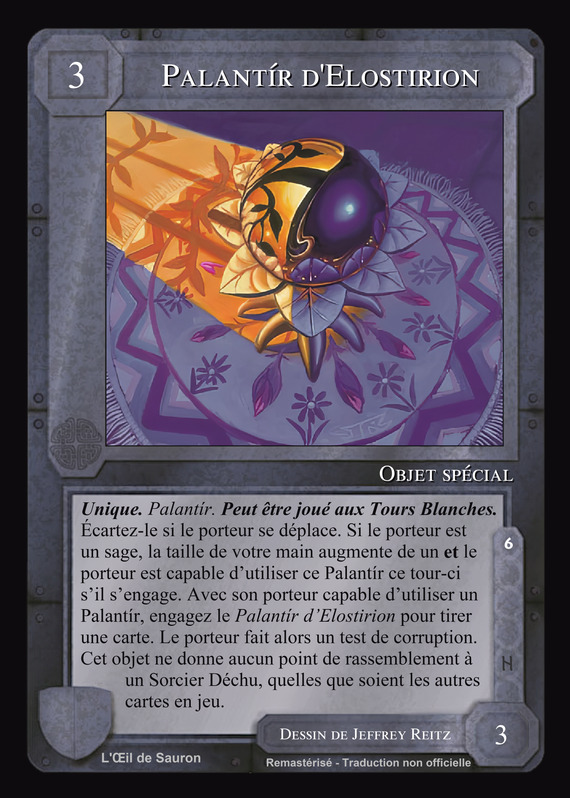
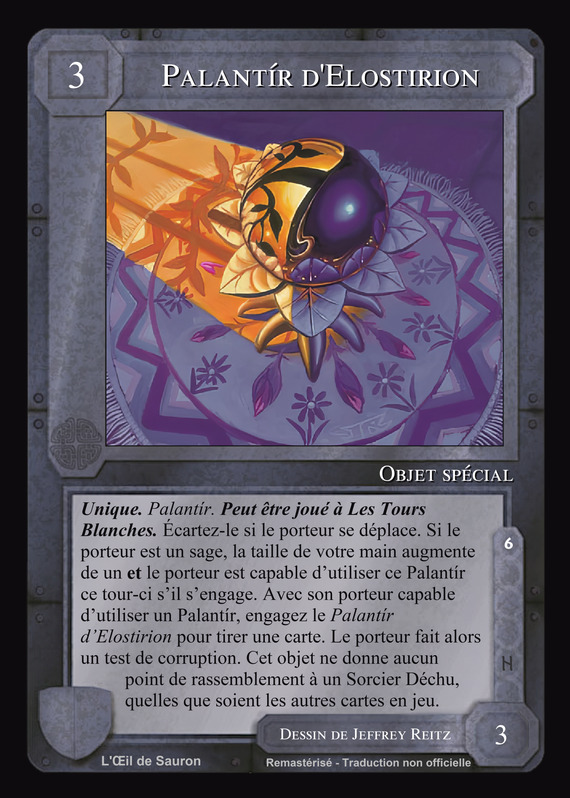
17.05.2026

Changed region(s): [[0.1193, 0.6316, 0.8649, 0.9023], [0.1789, 0.9323, 0.3579, 0.9624]]

diff --git a/README.md b/README.md
@@ -10,7 +10,7 @@ __en phase de relecture__
 
 __dernières mise-à-jour__
 
-* 17.05.26 : modififactions mineurs (Traînée de pale luminosité (DM), Charmes des Êtres des Galgals (DM), Ombre venue des ténèbres (DM), Au-dessus des abysses (AS), Dame de la forêt d'Or (AS), Palantír d'Elostirion (TW et LE), Radagast (TW))
+* 17.05.26 : modififactions mineurs (Traînée de pale luminosité (DM), Charmes des Êtres des Galgals (DM), Ombre venue des ténèbres (DM), Au-dessus des abysses (AS), Dame de la forêt d'Or (AS), Palantír d'Elostirion (TW et LE), Radagast (TW), Círdan (TW))
 * 27.05.05 : modifications mineures (Épée vaillante (TD), Coupe-Jarret (TW))
 * 07.05.25 : modifications mineures (Montagnes Brumeuses (TW), Plateau (TW))
 * 25.04.25 : modifications mineures (Île des morts qui vivent TW/LE, Dernière engeance d'Ungoliant DM, Hommes des Bois LE)
